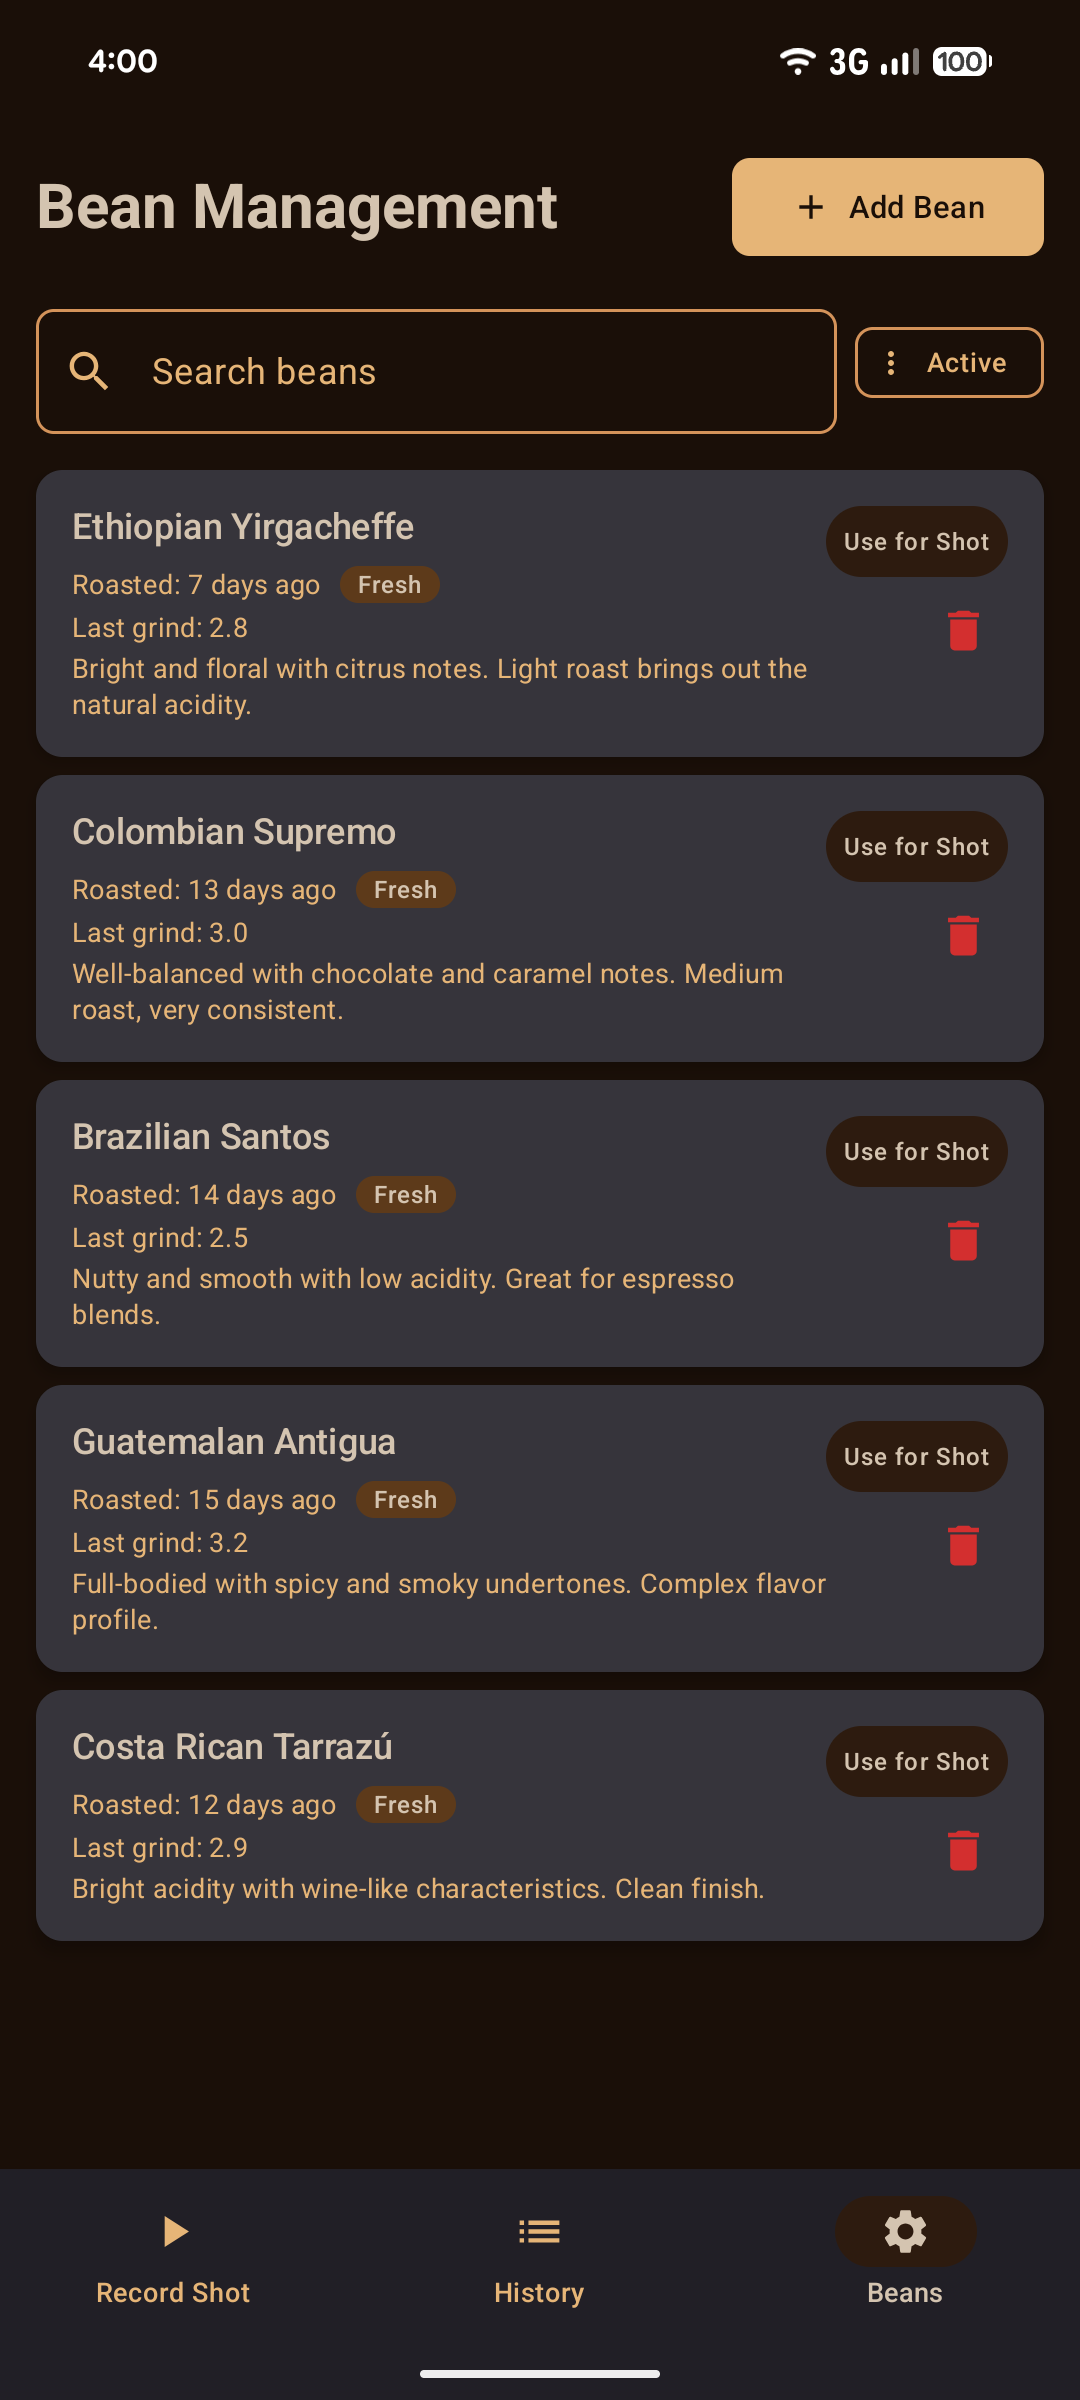
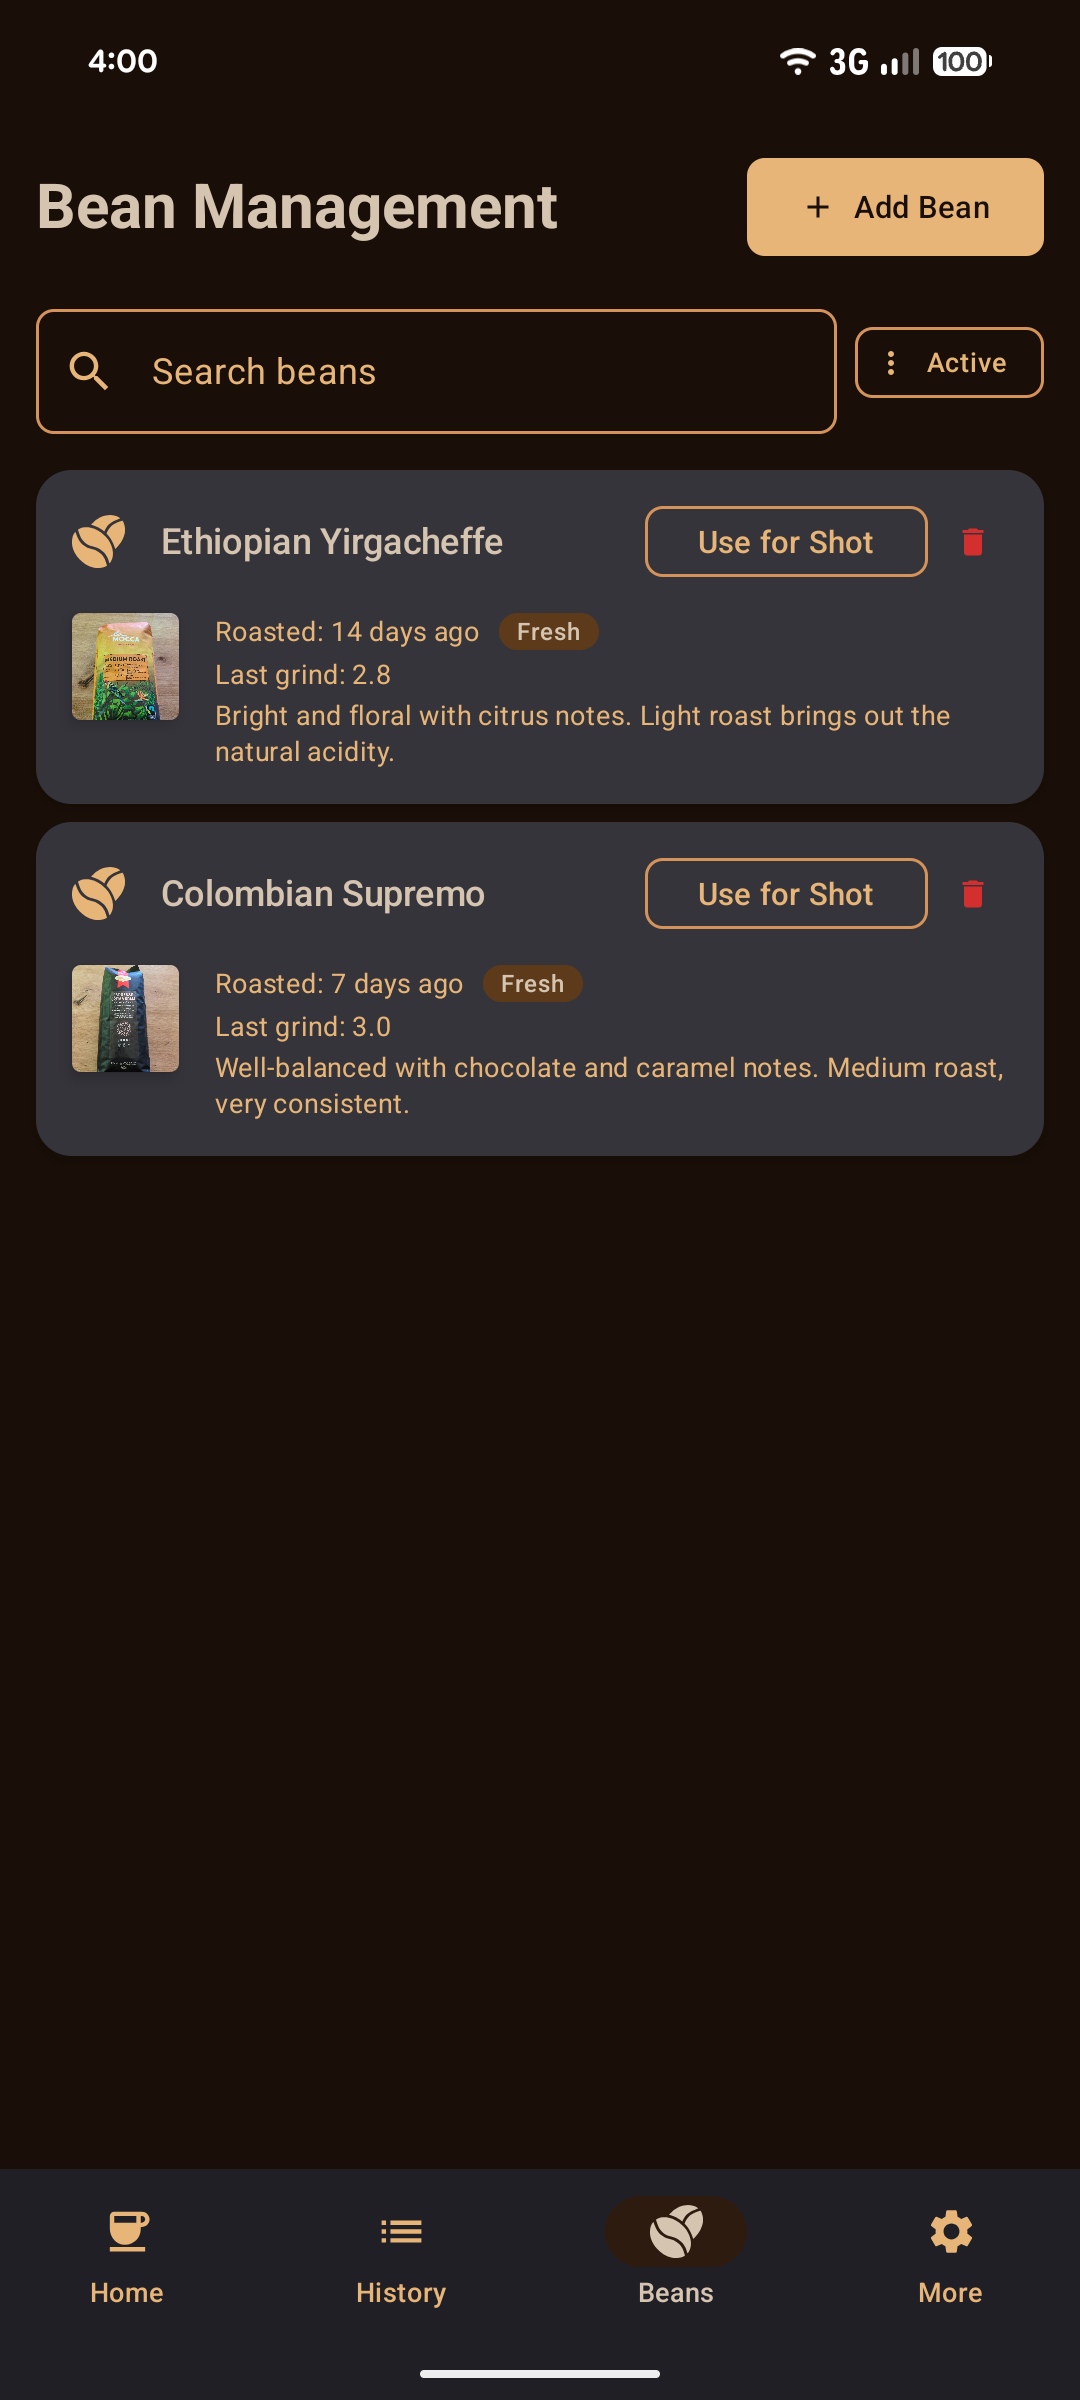
chore: update screenshots and readme

diff --git a/README.md b/README.md
@@ -10,40 +10,17 @@
 
 ## Overview
 
-Coffee Shot Timer is a precision Android app designed specifically for espresso machine enthusiasts who want to systematically improve their brewing skills. The app combines intelligent timing with detailed data capture to help you achieve consistent, perfect espresso extractions.
+Coffee Shot Timer is a precision Android app designed specifically for espresso machine enthusiasts who want to systematically improve their brewing skills. The app combines intelligent timing with detailed data capture to help you achieve consistent, dialed-in espresso extractions.
 
 ## Features
 
-### 🎯 **Precision Timer with Visual Feedback**
-- Large, touch-friendly timer display with color-coded visualization
-- Optimal extraction times signaled through intuitive color changes
-- Instant feedback on shot quality during extraction
-
-### ⚖ **Weight Documentation & Brew Ratio Tracking**
-- Track coffee input and espresso output with intuitive sliders
-- Automatic brew ratio calculations
-- Visual indicators for hitting the perfect extraction sweet spot
-
-### ☕ **Smart Bean Management**
-- Comprehensive coffee bean tracking with roast dates
-- Automatic freshness indicators
-- Notifications for optimal brewing windows
-
-### 📊 **Comprehensive Shot Documentation**
-- Record grinder settings, extraction times, and tasting notes
-- Complete parameter logging for every shot
-- Never forget a successful setup again
-
-### 📈 **Analysis & Optimization Tools**
-- Visualize brewing patterns over time
-- Spot trends and improvement opportunities
-- Historical data to reproduce and develop successful settings
-
-### 🚀 **Designed for Daily Use**
-- **100% Offline functionality** - works perfectly without WiFi
-- Automatic draft saving prevents data loss
-- Quick input workflow optimized for active brewing
-- Large interface elements for stress-free operation
+- Precision timer with clear visual feedback
+- Brew ratio tracking with intuitive sliders; supports single-shot baskets (down to 5 g)
+- Shot logging and analysis: times, grinder settings, tasting notes, and trends over time
+- Bean management with roast dates, freshness indicators, and attachable package photos
+- Grinder setup tailored to your equipment; record and compare grinder settings
+- Simple onboarding and streamlined navigation; About screen and in-app feedback
+- Built for daily use: 100% offline, autosave drafts, and a fast, stress-free UI
 
 ## Screenshots
 
@@ -58,6 +35,8 @@ Coffee Shot Timer is a precision Android app designed specifically for espresso 
   <img src="docs/shot_analysis.png" alt="Shot Analysis" width="200">
   <img src="docs/filter_shots.png" alt="Filter Shots" width="200">
   <img src="docs/bean_management.png" alt="Bean Management" width="200">
+  <img src="docs/grinder_settings.png" alt="Grinder Settings" width="200">
+  <img src="docs/bean_photo.png" alt="Bean Package Photo" width="200">
 </p>
 
 ## Perfect For
@@ -71,10 +50,10 @@ Coffee Shot Timer is a precision Android app designed specifically for espresso 
 ## Technology Stack
 
 This is an Android application built with:
-- **Kotlin** - Primary programming language
-- **Android Gradle Plugin** - Build system
-- **Hilt** - Dependency injection
-- **Room Database** - Local data storage
+- **Kotlin** — primary programming language
+- **Android Gradle Plugin** — build system
+- **Hilt** — dependency injection
+- **Room Database** — local data storage
 
 ## Getting Started
 
@@ -91,16 +70,16 @@ git clone https://github.com/jodli/CoffeeShotTimer.git
 cd CoffeeShotTimer
 ```
 
-2. Open the project in Android Studio
+2. Open the project in Android Studio.
 
 3. Build the project:
 ```bash
 ./gradlew build
 ```
 
-4. Run on device or emulator:
+4. Run on a device or emulator:
 ```bash
-./gradlew installDebug
+./gradlew installDevDebug
 ```
 
 ### Release Build
@@ -119,7 +98,7 @@ gradle/                 # Gradle configuration
 
 ## Contributing
 
-Contributions are welcome! Please feel free to submit a Pull Request. For major changes, please open an issue first to discuss what you would like to change.
+Contributions are welcome! Please feel free to submit a pull request. For major changes, please open an issue first to discuss what you would like to change.
 
 ## License
 
@@ -127,7 +106,7 @@ This project is licensed under the terms found in the [LICENSE](LICENSE) file.
 
 ## Philosophy
 
-Coffee Shot Timer transforms espresso making from guesswork into precise craftsmanship - without any stress. The app supports you in achieving consistent espresso quality and developing your personal taste preferences through a structured, data-driven approach.
+Coffee Shot Timer transforms espresso making from guesswork into precise craftsmanship—without any stress. The app supports you in achieving consistent espresso quality and developing your personal taste preferences through a structured, data-driven approach.
 
 ---
 
